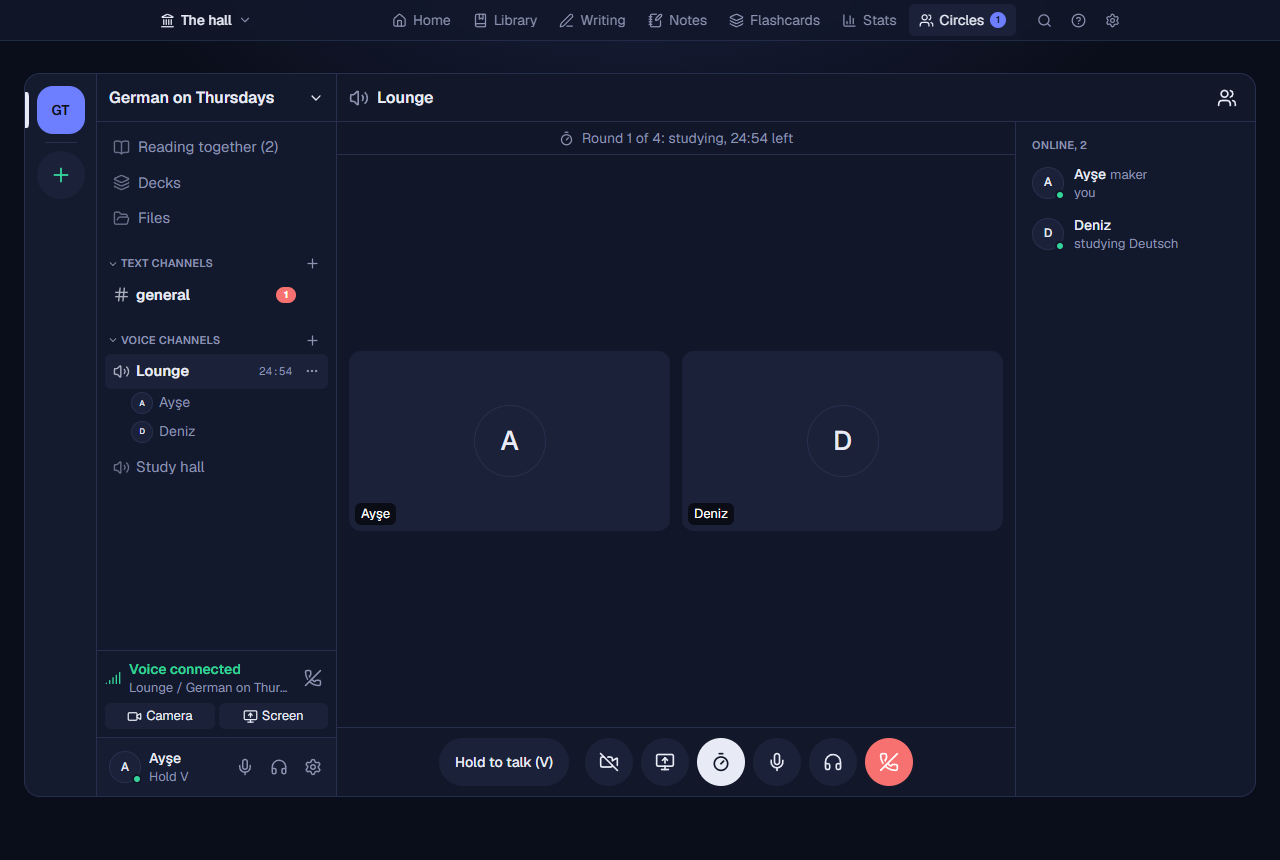
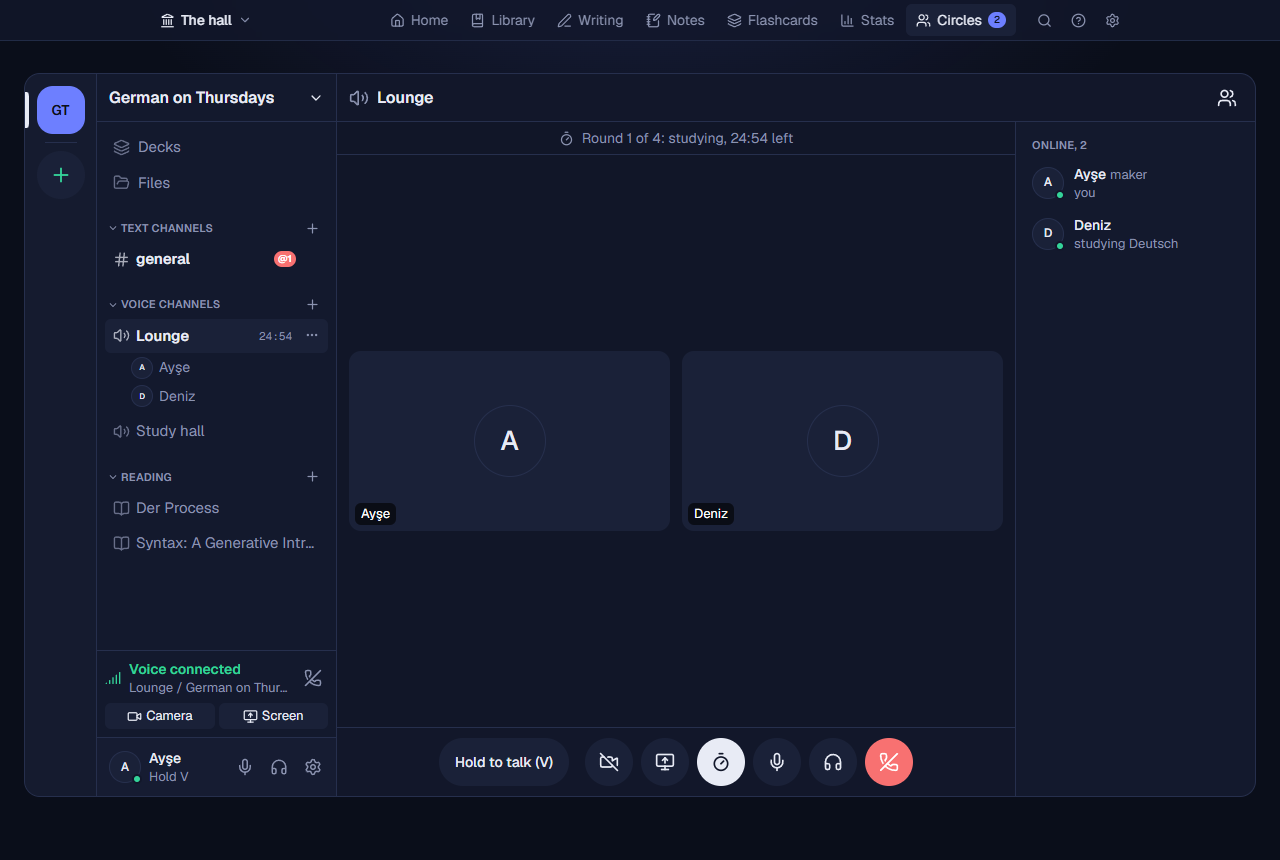
Update the site

diff --git a/docs/manual.html b/docs/manual.html
@@ -23,7 +23,7 @@
   </header>
 
   <h1>The full user manual</h1>
-  <p class="lead">Everything Voynich does, part by part. New here? Start with <a href="guide.html">Getting started in ten minutes</a>. This manual describes version 0.78.0; later versions may add things, and Settings, About and updates lists what changed.</p>
+  <p class="lead">Everything Voynich does, part by part. New here? Start with <a href="guide.html">Getting started in ten minutes</a>. This manual describes version 0.79.0; later versions may add things, and Settings, About and updates lists what changed.</p>
 
   <div class="layout">
     <nav class="toc" aria-label="Contents">
@@ -581,13 +581,13 @@
         <h2 id="circles">16. Study circles</h2>
         <p>A <strong>circle</strong> is a small private group (a few friends, a class, a language exchange) whose Trackers connect to each other directly. There is no server and no account: you join with an invite code, and whoever is online is the circle at that moment. A circle shows who is in it and who is online, the progress each member chooses to share with it, the decks they share and the books they read together, and it has <strong>channels</strong>: text channels to write in and voice channels to talk, share screens, turn cameras on and study in rounds (below). You can be in several at once (a book club, a language group, a class), each with its own invite code and its own members; none of them can see the others, or tell that you are in them. Everything about circles is in the hall, <strong>Circles</strong> (in the bar at the top of the hall and of every room).</p>
         <h3>The circle&rsquo;s page</h3>
-        <figure class="shot"><a class="zoom" href="img/circles.png"><img src="img/circles.png" width="1280" height="860" alt="A circle: on the far left the circles as round marks; beside them the circle's name, Reading together, Decks and Files, the text channels and the voice channels with who is in each, the Voice connected panel and your name with Mute, Deafen and settings; in the middle #general, with messages and a line about a member's study; on the right the member list." loading="lazy"></a><figcaption>A circle, open at #general.</figcaption></figure>
-        <p>A circle&rsquo;s page has four columns, as chat apps do. On the far left, your <strong>circles</strong>, each a round mark with its initials and a count of what is new; <em>+</em> under them makes or joins one. Beside them, the open circle: its name (press it for <em>Invite people</em>, <em>Circle settings</em> and <em>Make a channel</em>), then <strong>Reading together</strong>, <strong>Decks</strong> and <strong>Files</strong>, then its <strong>text channels</strong> (#general first) and its <strong>voice channels</strong>, with who is in each voice channel under it. At the bottom, your name in this circle, with <em>Mute</em>, <em>Deafen</em> and the circle&rsquo;s settings. In the middle, the channel open (its name and topic at the top); on the right, the <strong>member list</strong>: who is online, then who is not, each with what they are doing (studying now in a room, reading a book, online, or when they were last seen). The members button at the top hides it or brings it back. Press a member for their own page: their week day by day, each room they share, the readings they are in and where they are, the voice channel they are in, the decks they share (with <em>Bring in</em>), Nice work, and what they did lately. Your own page shows what the others see of you, with the choice of what you share beside it. The circle and channel open are remembered, and are in the page&rsquo;s address, so they come back after a reload.</p>
+        <figure class="shot"><a class="zoom" href="img/circles.png"><img src="img/circles.png" width="1280" height="860" alt="A circle: on the far left the circles as round marks; beside them the circle's name, Decks and Files, the text channels, the voice channels with who is in each and the Reading channels, the Voice connected panel and your name with Mute, Deafen and settings; in the middle #general, with messages and a line about a member's study; on the right the member list." loading="lazy"></a><figcaption>A circle, open at #general.</figcaption></figure>
+        <p>A circle&rsquo;s page has four columns, as chat apps do. On the far left, your <strong>circles</strong>, each a round mark with its initials and a count of what is new; <em>+</em> under them makes or joins one. Beside them, the open circle: its name (press it for <em>Invite people</em>, <em>Circle settings</em> and <em>Make a channel</em>), then <strong>Decks</strong> and <strong>Files</strong>, then its <strong>text channels</strong> (#general first), its <strong>voice channels</strong>, with who is in each voice channel under it, and its <strong>Reading channels</strong>, one for each book the circle reads together. At the bottom, your name in this circle, with <em>Mute</em>, <em>Deafen</em> and the circle&rsquo;s settings. In the middle, the channel open (its name and topic at the top); on the right, the <strong>member list</strong>: who is online, then who is not, each with what they are doing (studying now in a room, reading a book, online, or when they were last seen). The members button at the top hides it or brings it back. Press a member for their own page: their week day by day, each room they share, the readings they are in and where they are, the voice channel they are in, the decks they share (with <em>Bring in</em>), Nice work, and what they did lately. Your own page shows what the others see of you, with the choice of what you share beside it. The circle and channel open are remembered, and are in the page&rsquo;s address, so they come back after a reload.</p>
         <h3 id="channels">Channels</h3>
         <p>A circle starts with <strong>#general</strong> and two voice channels, <strong>Lounge</strong> and <strong>Study hall</strong>. Everything said in a circle before channels is in #general. The circle&rsquo;s maker makes more with the <em>+</em> beside <em>Text channels</em> or <em>Voice channels</em> (or <em>Make a channel</em> in the circle&rsquo;s menu): a name and, for a text channel, a topic (&ldquo;chapter-3&rdquo;: a text channel&rsquo;s name is written in small letters, with dashes). The <em>...</em> beside a channel, for the maker, has <em>Edit channel</em>, <em>Move up</em>, <em>Move down</em> and <em>Delete channel</em> (#general stays); a deleted channel&rsquo;s messages are not shown any more, at anyone&rsquo;s. In <em>Circle settings</em>, <em>Anyone can make channels</em> lets every member make them: a member&rsquo;s new channel appears for everyone once the maker&rsquo;s Voynich is online, and is shown in italics to them until then. <kbd>Alt</kbd>+<kbd>&uarr;</kbd> and <kbd>Alt</kbd>+<kbd>&darr;</kbd> go to the text channel before or after, <kbd>Ctrl</kbd>+<kbd>Alt</kbd>+<kbd>&uarr;</kbd> and <kbd>&darr;</kbd> to the circle before or after, and <kbd>Escape</kbd> back to the channel from a member&rsquo;s page or the settings.</p>
         <p>A text channel shows its messages by day, each person&rsquo;s name and time once for messages written together, and a red line where you were last there. #general also has short lines about what members did with the circle: a deck shared, or new cards in it; a reading started or joined, a stage of its plan reached, the book finished; a streak of 7, 30, 100 or 365 days; someone joining or leaving; and once a day, in the evening, each member&rsquo;s study that day (&ldquo;Deniz studied 1h 10m, 90 answers&rdquo;), with <em>Nice work</em> on it and who said it. Nothing new is sent for these lines: each Voynich notes them itself from what members already share, so what you do not share makes no line. What was already there when you joined is not news: the lines start with what happens after.</p>
         <h3>What is new</h3>
-        <p><em>Circles</em> in the top bar counts the messages and lines from the others that you have not seen yet; each circle&rsquo;s mark counts its own, and a channel with something new is bright, with its count. In Voynich&rsquo;s other pages a small notice says when someone in a circle writes (with a link to its channel), or starts study rounds in a voice channel. The notices are only in Voynich, in this browser: nothing is sent anywhere for them. Turn them off in <em>Circle settings</em>, <em>Notices</em> (or <em>Turn these off</em> on a notice); the counts stay.</p>
+        <p><em>Circles</em> in the top bar counts the messages and lines from the others that you have not seen yet; each circle&rsquo;s mark counts its own, and a channel with something new is bright, with a grey count. A message that <strong>mentions you</strong> makes the count red, with an <em>@</em> on the channel, and its notice says who mentioned you and where. In Voynich&rsquo;s other pages a small notice says when someone in a circle writes (with a link to its channel), or starts study rounds in a voice channel. The notices are only in Voynich, in this browser: nothing is sent anywhere for them. Turn them off in <em>Circle settings</em>, <em>Notices</em> (or <em>Turn these off</em> on a notice); the counts stay.</p>
         <h3>First steps, and the phone</h3>
         <p>A new circle shows its first steps in #general: invite someone (with a button that copies the invite code), choose what you share, and study together (in a voice channel, or a reading). Each is ticked once done, and the steps go when all three are (or with the cross).</p>
         <p>On a phone the circles and channels are one screen (the menu button at the top), a channel fills the screen, and the member list opens over it. A phone shows who is in each voice channel, but talking needs Voynich on a computer for now (a phone reaches it over plain http, which browsers give no microphone).</p>
@@ -607,8 +607,9 @@
         <h3>Sharing decks</h3>
         <p>One member makes the German or Chinese deck, and the whole circle studies it. In the circle&rsquo;s <em>Circle settings</em>, <em>What you share</em>, choose a room and one of its decks (the decks inside it go with it) and press <strong>Share</strong>. The deck goes without your progress: every card is new for the others, and none of your answers, flags or suspensions go with it; its notes, note types, pictures and sounds do.</p>
         <p>Under a member who shares a deck, the circle sees its name, how many cards and how big it is. Choose one of your rooms and press <strong>Bring in</strong>: the deck&rsquo;s file is fetched from whoever in the circle has it (it is checked against the fingerprint on its maker&rsquo;s card, so nobody can slip in another), and it comes in as an Anki deck does. After that, when its maker changes the deck, the change reaches you by itself within a few minutes while both Trackers run (or through a member who has the new version): new cards are added, and the notes its maker changed are updated. Your schedule and history stay yours, and an edit of your own to one of its cards stays unless its maker changes that same note. <em>Stop updates</em> keeps the cards as they are, as your own; <em>Stop sharing</em> (the maker&rsquo;s) offers it no more. Cards its maker deletes stay with you.</p>
-        <h3>Reading together</h3>
-        <p>The circle reads the same book, each member in their own copy, by a plan. In the hall, <em>Circles</em>, <em>Reading together</em>, press <strong>Start a reading</strong>, choose a book of your Library and write the plan: stages of a page and a day (&ldquo;up to page 120 by Friday: Part 1&rdquo;), as many as you like. The others see the book&rsquo;s details and the plan, never the book itself, and choose <strong>Join</strong> with their own copy: a book of their Library, or <em>Add it to my Library</em>, which makes one from the details.</p>
+        <h3 id="reading-channels">Reading together</h3>
+        <p>The circle reads the same book, each member in their own copy, by a plan. Press the <strong>+</strong> beside <em>Reading</em> in the channel list (<em>Start a reading</em>), then <strong>Start a reading</strong>, choose a book of your Library and write the plan: stages of a page and a day (&ldquo;up to page 120 by Friday: Part 1&rdquo;), as many as you like. The others see the book&rsquo;s details and the plan, never the book itself, and choose <strong>Join</strong> with their own copy: a book of their Library, or <em>Add it to my Library</em>, which makes one from the details.</p>
+        <p id="reading-channel">Each reading is a <strong>Reading channel</strong> of its own, under <em>Reading</em>, with a book beside its name: at its top, <em>The reading</em> (the book, the plan, everyone&rsquo;s place, and <em>Join</em>), which folds away; below it, the channel&rsquo;s own messages, as in a text channel, to talk about the book. Nobody has to make it: it comes with the reading, and goes when the reading ends (its messages then show in #general). Members on a Voynich older than 0.79 see its messages in #general.</p>
         <p id="reader-circle"><strong>In the reader.</strong> A book you read with a circle has a circle button in the reader&rsquo;s bar, which says the plan&rsquo;s next stage (&ldquo;p. 120 by Fri&rdquo;). Press it for everyone&rsquo;s page and how far each is from that stage, and a link to the circle. A book read with more than one circle lists each. Books no circle reads have no button.</p>
         <p>Each reader&rsquo;s place is the current page of their own copy (as the Library and the reader keep it), so it follows their reading by itself, within a couple of minutes. Every reader sees everyone&rsquo;s page, how far through they are, and how many pages they have to the plan&rsquo;s next stage. When two copies have different page counts (another edition), a stage is counted by how far through the book it is. The reading&rsquo;s starter can change the plan or end the reading; the others can leave it. The books stay in everyone&rsquo;s Library.</p>
         <h3 id="file-requests">Asking for files</h3>
@@ -629,12 +630,13 @@
         <p>The others&rsquo; shared highlights show in your own copy, each member in their own colour; point at one to see who made it and their note. They are found by their words, so another edition of the book works too; what goes is only the words, the colour, the page in their copy and the note, never the book&rsquo;s file. <em>Keep some to myself</em>, in the reader&rsquo;s circle button, leaves any one of your highlights out. A new highlight follows by itself within half a minute; one you delete goes from the others&rsquo; copies too.</p>
         <h3 id="chat">Writing in a channel</h3>
         <p>In a text channel, write in the box at the bottom (&ldquo;Message #general&rdquo;) and press <kbd>Enter</kbd> (<kbd>Shift</kbd>+<kbd>Enter</kbd> for a new line); it goes to that channel only. The <strong>microphone</strong> button beside it records a <strong>voice message</strong> of up to two minutes: a red sign says the microphone is on until you press <em>Stop</em>; then you listen to it, and <em>Send</em> or <em>Throw away</em>. Nothing goes before Send. Every member&rsquo;s Voynich gets the recording from whoever has it (a member who was away gets it later) and keeps it as long as the circle keeps its messages; members on an older Voynich see a line saying it is a voice message. A phone opens Voynich over plain http, which browsers give no microphone, so record on the computer (the phone plays them). Every member&rsquo;s Voynich keeps the messages for as long as the circle&rsquo;s maker chose (a week, 30 days, a year or for good; 30 days unless they change it), and members who were away get them from whoever is online when they come back. A message is signed by its writer, so nobody can write in someone else&rsquo;s name, and it cannot be taken back once sent. A member on Voynich 0.76 or older sees every channel&rsquo;s messages in its one chat, and what they write is in #general, until they update.</p>
+        <p id="chat-marks"><strong>Replies, mentions, reactions and pins.</strong> Point at a message (or press <kbd>Tab</kbd> to it, or tap it on a phone) for three buttons. <strong>Add a reaction</strong> offers eight (&#x1F44D; &#x2764;&#xFE0F; &#x1F602; &#x1F62E; &#x1F622; &#x1F389; &#x2705; &#x1F440;); they show under the message with how many, and pointing at one says who. Press one of yours again to take it back. <strong>Reply</strong> puts &ldquo;Replying to&rdquo; above the box; the reply shows the start of what it answers, and pressing that goes to it. <strong>Pin</strong> pins the message for everyone in the circle (anyone can pin, and unpin); the pin at the top of the channel lists what is pinned in it. To <strong>mention</strong> someone, type <kbd>@</kbd> and the start of their name, then choose them from the list (<kbd>Enter</kbd> or <kbd>Tab</kbd>): the message is marked in their chat, and counted in red for them. Members on a Voynich older than 0.79 see a reaction or a pin as a short message saying so (&ldquo;reacted &#x1F44D;&rdquo;), a reply as a plain message, and a mention as the words written.</p>
         <p id="chat-files"><strong>Images and files in the chat.</strong> These are the circle&rsquo;s maker&rsquo;s choice, off unless chosen: in <em>Circle settings</em>, <em>Files</em>, the third choice, <em>Anyone can send any file, also directly in the chat</em>. Where it is off there is no <em>+</em>, nothing can be sent, and what is already in the chat shows as a plain line naming it, until the maker turns it on again. Where it is on, the <strong>+</strong> at the start of the box adds them; you can also paste a picture into the box or drop files on the channel. They wait above the box until you press <em>Send</em>, and each goes as a message of its own, which cannot be taken back. An <strong>image</strong> (PNG, JPEG, WebP or GIF, up to 20 MB) shows to the others <strong>blurred</strong>, from a very small preview that travels inside the message, until they press <strong>Download</strong>. It then comes from any member who has it, and is sharp; pressing it shows it larger, with <em>Save</em>. So everyone in the circle does receive that small blurred preview, and only those who press Download receive the image. If no member who has it is online, it says it is waiting, and comes when one is. Any other <strong>file</strong> (up to 500 MB) shows as a card with <em>Get</em>, then <em>Save</em>. Files never open in Voynich from the chat: they are saved, so nothing a member sent can run. All of this also shows in the circle&rsquo;s <em>Files</em>, under <em>In chat</em>, and goes when its message goes, by the circle&rsquo;s choice of how long messages are kept. A copy already saved outside Voynich stays. <strong>Delete for me</strong>: the small bin on an image or a file takes it out of your chat and its file off your computer, after asking. It does not come back, and the others keep theirs. If you were the only one with the file, those who had not downloaded it can no longer get it. The message itself, with its small preview, stays hidden in your Voynich until its time is up, so that you can still pass the message on to members who were away. Members on an older Voynich see a line naming the image or file, and cannot get it or pass it on.</p>
         <h3 id="voice-channels">Voice channels</h3>
         <figure class="shot"><a class="zoom" href="img/circles-call.png"><img src="img/circles-call.png" width="1280" height="860" alt="The Lounge, a voice channel, with study rounds running: the countdown at the top, a tile for each person, and the bottom bar with Hold to talk, Camera, Share your screen, Study rounds, Mute, Deafen and Leave voice; the time left beside the channel in the list." loading="lazy"></a><figcaption>Study rounds in a voice channel.</figcaption></figure>
         <p id="room-talk">Press a voice channel to join it: you are in it, the others in the circle see you under it, and your <strong>microphone is open</strong>, as in Discord. Press it again to see the call. The call shows everyone in the channel as a tile (their camera, or their initials), with a green ring round whoever is talking and a sign for who is muted or deafened. Its <strong>bottom bar</strong> has <em>Camera</em>, <em>Share your screen</em>, <em>Study rounds</em>, <em>Mute</em>, <em>Deafen</em> and <em>Leave voice</em>. <strong>Mute</strong> sends nothing until you unmute; <strong>Deafen</strong> also lets you hear no one (and mutes you); <em>Mute</em> while deafened undeafens and unmutes. Both are also at the bottom of the channels, beside your name, and the others see them. Point at someone&rsquo;s tile to mute them for you alone. While you are in a voice channel, <strong>Voice connected</strong> above your name says which, with <em>Disconnect</em>, and <em>Camera</em> and <em>Screen</em>, which open the call. Nothing of the talk is recorded or kept.</p>
         <p id="hold-to-talk">If you use speakers without headphones, or are in a noisy room, choose <strong>Hold to talk</strong> in <em>Circle settings</em>, <em>Voice</em> (on this computer, for every circle): the microphone then sends only while you hold <kbd>V</kbd> (not while typing, and not on the flashcards pages, where <kbd>V</kbd> plays the card&rsquo;s sound) or the <em>Hold to talk (V)</em> button in the bottom bar. With speakers and an open microphone the others may hear themselves; headphones avoid it.</p>
-        <p id="noise-suppression"><strong>Noise suppression.</strong> Also in <em>Circle settings</em>, <em>Voice</em>, for what the others hear from your microphone: <strong>Strong</strong>, the choice to begin with, takes out a laptop&rsquo;s fan, hum and a noisy room, between your words and under them, as well as steady hiss (it is RNNoise, a small neural network that runs on your own computer, before your voice is sent); <strong>Standard</strong> is the browser&rsquo;s own suppression only, for steady hiss (try it if Strong cuts the ends of your words); <strong>Off</strong> takes out nothing, for music or a good microphone in a quiet room. A change takes effect at once, in a call too. If Strong cannot start in your browser, Voynich uses Standard and says so there. <strong>Test your microphone</strong>, below them, records five seconds of you and then plays them back as the others hear you, with the suppression chosen; it records first and plays after, so speakers cannot howl, and it is not offered while you are in a voice channel.</p>
+        <p id="noise-suppression"><strong>Noise suppression.</strong> Also in <em>Circle settings</em>, <em>Voice</em>, for what the others hear from your microphone: <strong>Strong</strong>, the choice to begin with, takes out a laptop&rsquo;s fan, hum and a noisy room, between your words and under them, as well as steady hiss (it is RNNoise, a small neural network that runs on your own computer, before your voice is sent); <strong>Standard</strong> is the browser&rsquo;s own suppression only, for steady hiss (try it if Strong cuts the ends of your words); <strong>Off</strong> takes out nothing, for music or a good microphone in a quiet room. A change takes effect at once, in a call too. If Strong cannot start in your browser, Voynich uses Standard and says so there. <strong>Test your microphone</strong>, below them, records five seconds of you and then plays them back as the others hear you, with the suppression chosen; it records first and plays after, so speakers cannot howl, and it is not offered while you are in a voice channel. <strong>Hear yourself</strong>, beside it, plays your microphone to you live, as you talk, until <em>Stop hearing yourself</em>: use headphones (on speakers you would hear an echo), and change Strong, Standard or Off while you listen to hear the difference at once. It leaves out the call's compression, which the recorded test has, and stops when you close the settings.</p>
         <p id="study-rounds"><strong>Study rounds.</strong> Anyone in a voice channel can press <em>Study rounds</em> and <em>Start now</em>: 25 minutes of study and a 5-minute break unless you change them, as many rounds as you like. Everyone in the channel sees the same countdown at the top of the call, and the time left shows beside the channel in the list, at everyone&rsquo;s (worked out from the same start, so nothing has to keep it in step). Anyone in it can stop them (<em>Stop the rounds</em>), and they go on when whoever started them leaves. The maker can set a voice channel to <strong>Talk only in breaks</strong> (<em>Edit channel</em>): while its rounds run, talking, cameras and screens wait for the breaks, and everyone still hears the room. And while your timer runs in a room you share with a circle, the circle sees &ldquo;studying now&rdquo; beside your name, with that room&rsquo;s name and since when.</p>
         <p id="room-camera"><strong>Cameras.</strong> In a voice channel, <em>Camera</em> opens a preview of yourself that only you see; nothing is sent until you press <em>Turn on</em>. Then your picture goes to the others in the talk, as it happens, and a red sign names who sees you; <em>Camera</em> again (or <em>Turn off</em> on Voynich&rsquo;s other pages) lets the camera go, and so do leaving the voice channel and the end of a break in a channel that talks only in breaks. The camera&rsquo;s light is on exactly while Voynich has it. The others&rsquo; cameras are on their tiles, with full screen on each, and small in a corner on Voynich&rsquo;s other pages. <em>Hide cameras</em> takes no one&rsquo;s: it spares your line, and you still hear everyone. Each picture is shown when that person&rsquo;s voice from the same moment is heard, so lips and words go together; on a slower line your picture gets smaller (720p, then 540p, then 360p) before it gets fewer frames, and each person gets what their own line allows. Cameras are for up to five people in a voice channel: with more, the talk goes on without them. Everyone sends a copy to each of the others, so your upload decides how sharp your picture is: it takes about 0.7 megabits a second of upload for each of the others (about 3 for a call of five), and more for a sharp picture. On less, your picture breaks or does not reach them, and a full upload slows what comes to you too, so on a slow line keep your camera off. Nothing is recorded or kept. It needs Chrome, Edge or Brave on a computer (with graphics acceleration on: in Brave, Settings, System), and everyone in the channel on Voynich 0.77 or later; the red sign names anyone who cannot take your picture, and they still hear you.</p>
         <p id="room-screen"><strong>Sharing your screen.</strong> In a voice channel, <em>Share your screen</em> in the bottom bar asks how: <em>Sharp</em> for reading (full size, up to 2560x1440, up to 30 frames a second) or <em>Smooth</em> for anything moving (60 frames a second, up to 1920x1080), and <em>With its sound</em> for a tab&rsquo;s sound, or the whole computer&rsquo;s where the browser offers it (a window has none; it never carries Voynich&rsquo;s own sound, so the voices do not go back out). <em>Choose what to share</em> opens the browser&rsquo;s own picker: a whole screen, one window or one tab. Nothing is sent until someone presses <em>Watch</em>, and then only to them. While you share, a red line says who watches; <em>Stop sharing</em> (or the browser&rsquo;s own) ends it, and so does leaving the voice channel. Everything on what you share is seen, notifications that pop up on it too. One person shares in a channel at a time. When someone shares, the others see <strong>LIVE</strong> with <em>Watch</em>: the screen opens large in the call, with the tiles under it, full screen, and, when there is sound, its volume; on Voynich&rsquo;s other pages it is small in a corner. On a slower line the picture gets smaller (Smooth) or has fewer frames a second (Sharp) rather than breaking; each viewer gets what their own line allows. It needs Chrome, Edge or Brave on a computer, and goes only to members on Voynich 0.77 or later whose connection can carry it.</p>
